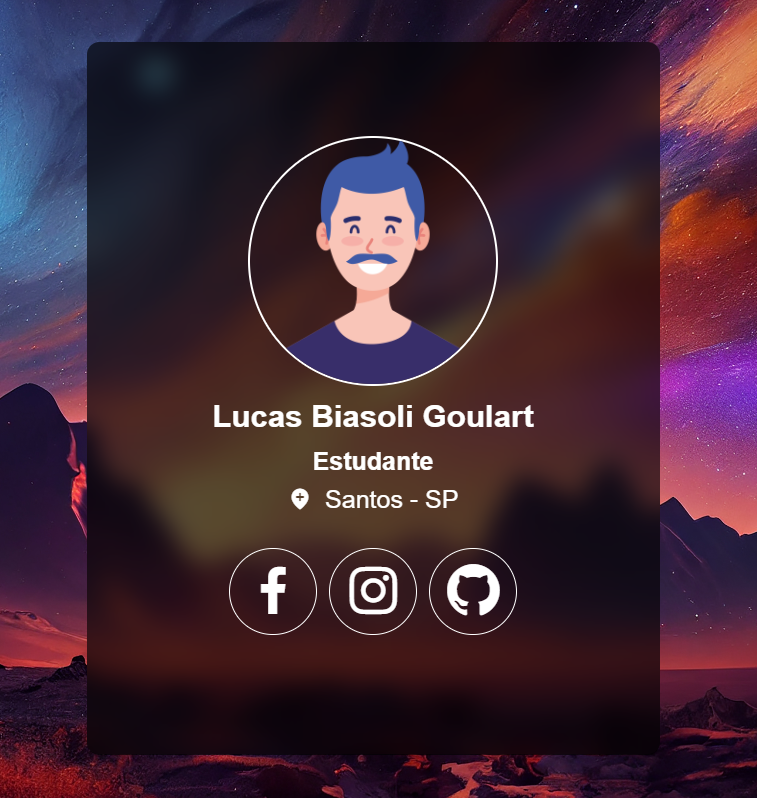
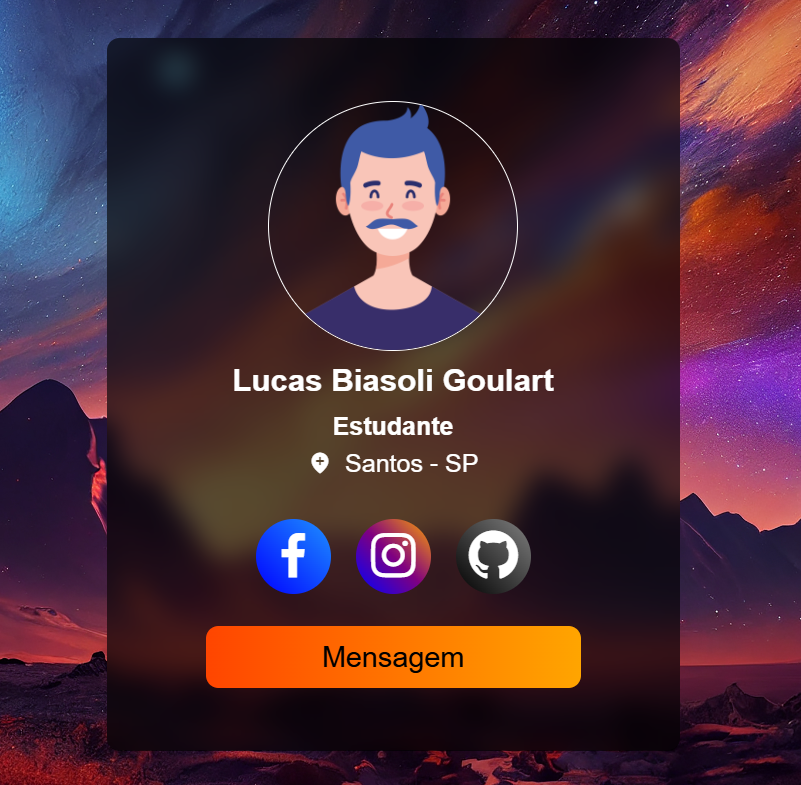
projeto_11_atualizado

diff --git a/Carta_de_perfil/style.css b/Carta_de_perfil/style.css
@@ -34,7 +34,7 @@ body{
     width: 200px;
     height: 200px;
     border-radius: 50%;
-    border: 2px solid white;
+    border: 1px solid white;
 }
 
 .carta h2{
@@ -72,18 +72,41 @@ body{
     display: flex;
     align-items: center;
     justify-content: center;
-    gap: 10px;
+    gap: 20px;
 }
 
 .redes i{
-    width: 70px;
-    height: 70px;
+    width: 60px;
+    height: 60px;
     display: flex;
     align-items: center;
     justify-content: center;
     background-color: transparent;
     border-radius: 50%;
     color: white;
-    font-size: 50px;
-    border: 1px solid white;
+    font-size: 47px;
+}
+
+#facebook{
+    background: linear-gradient(45deg, blue, dodgerblue);
+}
+
+#instagram{
+    background: linear-gradient(45deg, blue, purple, orange);
+}
+
+#github{
+    background: linear-gradient(45deg, black, gray);
+}
+
+/*-------Botão_de_mensagem-------*/
+.carta button{
+    width: 300px;
+    height: 50px;
+    border: none;
+    outline: none;
+    border-radius: 10px;
+    background: linear-gradient(to right, orangered, orange);
+    font-size: 23px;
+    cursor: pointer;
 }

diff --git a/Carta_de_perfil/index.html b/Carta_de_perfil/index.html
@@ -17,10 +17,11 @@
             <p>Santos - SP</p>
         </div>
         <div class="redes">
-            <i class='bx bxl-facebook'></i>
-            <i class='bx bxl-instagram'></i>
-            <i class='bx bxl-github'></i>
+            <i class='bx bxl-facebook' id="facebook"></i>
+            <i class='bx bxl-instagram' id="instagram"></i>
+            <i class='bx bxl-github' id="github"></i>
         </div>
+        <button>Mensagem</button>
     </div>
 </body>
 </html>
